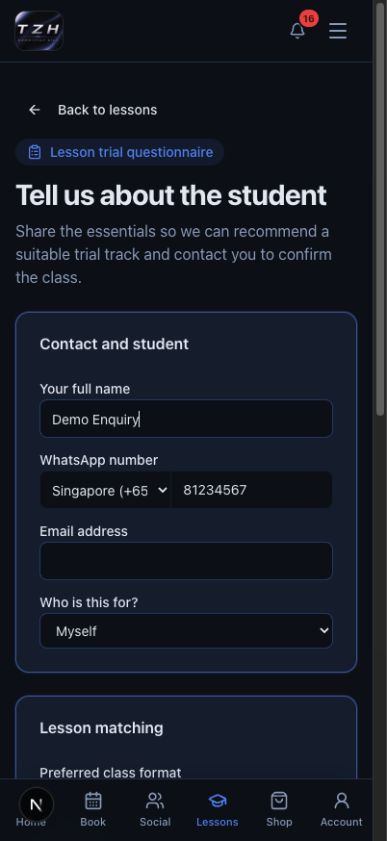
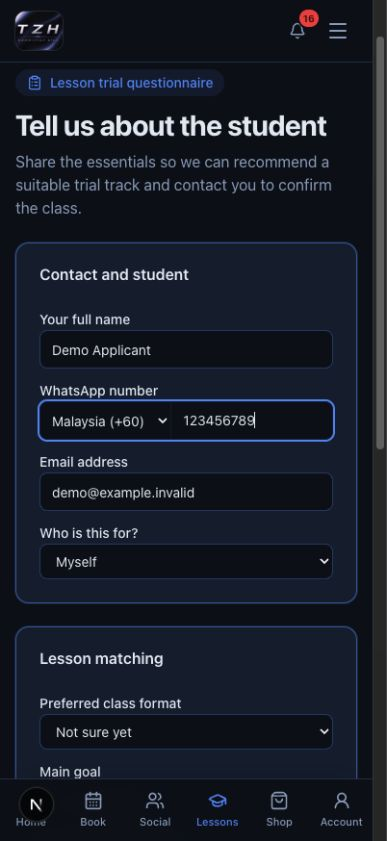
Document ASEAN-first country code menus in weekly guide

diff --git a/changelog/2026-11-09.md b/changelog/2026-11-09.md
@@ -3,5 +3,5 @@
 - [Apply lesson-window edits or cancellation to one session, upcoming sessions or the whole series](../website/admin-lessons.md#apply-an-action-to-a-recurring-series), with scope chosen after clicking Save Changes or Cancel Lesson and all-or-nothing saving. Awaiting deployment.
 
 - [Send Codex-assisted payment, pickup, feedback and restring reminders](../mcp/stringing-reminders.md), using the existing **Mark as sent** status, with payment waiting periods in the scheduler prompt and owner-approved full access for existing active, unexpired tokens. The MCP tools and permission now use **reminders** wording. Codex opens the prepared WhatsApp link and checks the prefilled chat before sending. The separate recovery panel and customer pause control are removed. MCP tools deployed; scheduled WhatsApp sending requires setup.
-- [Choose a country code for phone and WhatsApp numbers](../website/phone-numbers.md) in trial enquiries, registration, profile settings and admin contact entry. Preview only; awaiting deployment.
+- [Choose a country code for phone and WhatsApp numbers](../website/phone-numbers.md) in trial enquiries, registration, profile settings and admin contact entry, with ASEAN countries first, followed by East Asia, in every language. Preview only; awaiting deployment.
 - [Find contacts using formatted or local phone numbers](../website/phone-numbers.md#find-an-existing-contact); equivalent legacy Malaysian numbers stay together in recurring guest contacts and cannot bypass lesson duplicate checks. Preview only; awaiting deployment.

diff --git a/website/phone-numbers.md b/website/phone-numbers.md
@@ -4,7 +4,7 @@
 
 [Request a trial](https://tzhsports.vercel.app/lessons/trial) · [Register](https://tzhsports.vercel.app/register) · [Account settings](https://tzhsports.vercel.app/account/settings)
 
-1. Choose **Country code**, for example **Malaysia (+60)** or **Singapore (+65)**.
+1. Choose **Country code**. All 11 ASEAN countries appear first (Malaysia and Singapore lead), followed by Taiwan, China, Japan, South Korea, Hong Kong, Macao, Mongolia and North Korea, then other Asian countries and the rest of the world.
 2. Enter the phone number beside it. You can also paste the complete number with its `+` country code.
 3. Complete the form and save. A missing country code or incomplete number must be corrected before it can be saved.
 
